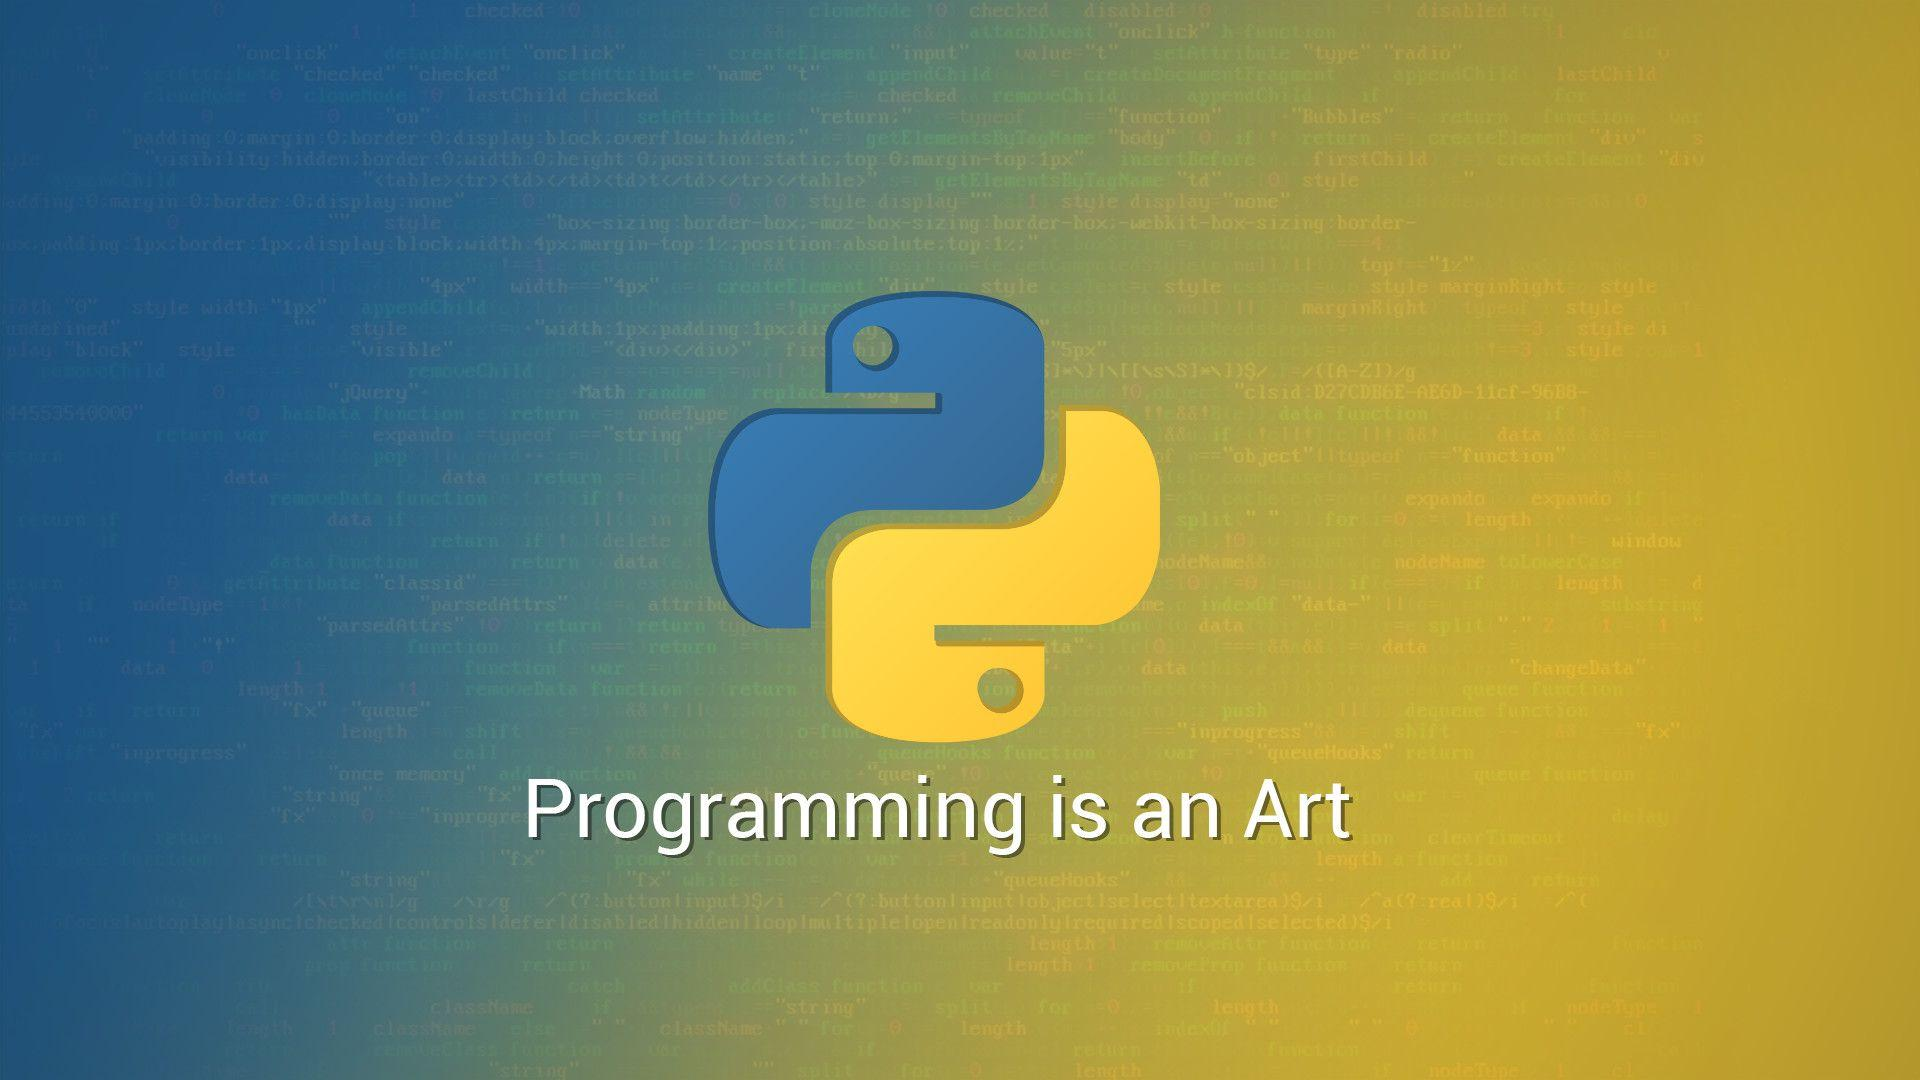
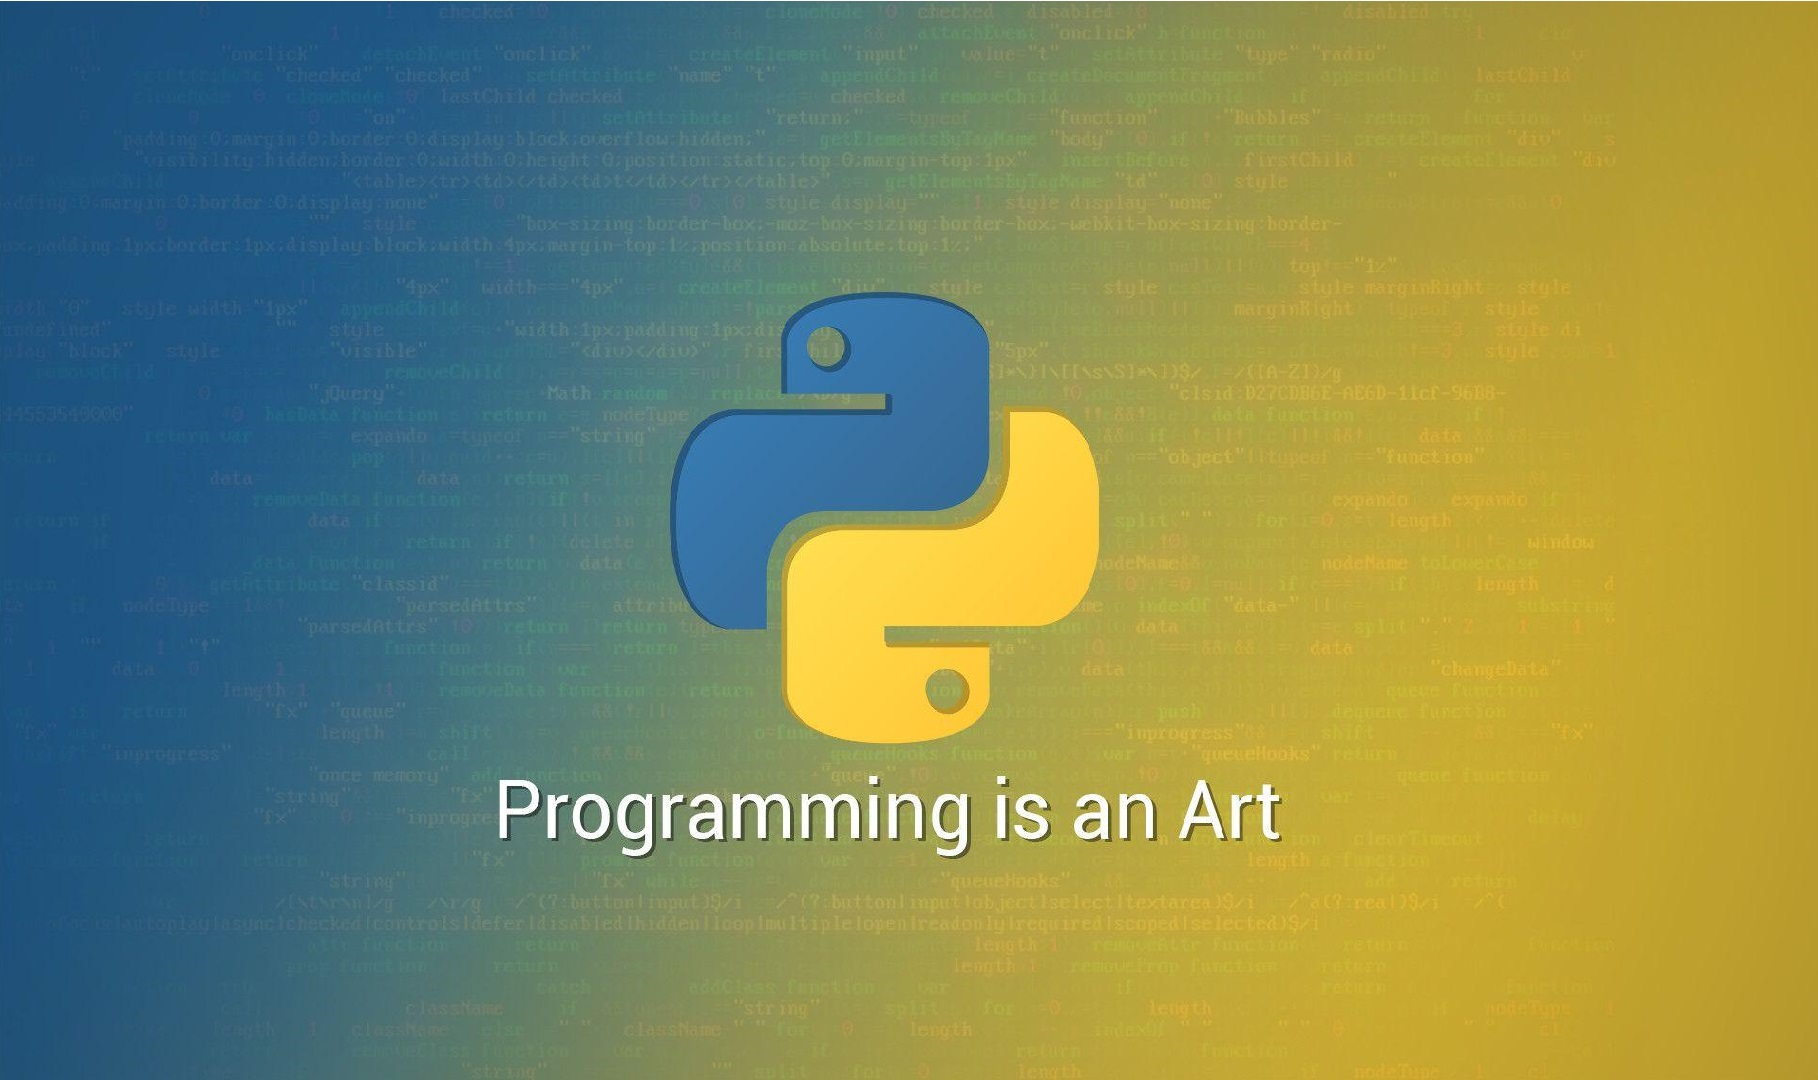
Added slideshows

Changed region(s): [[0.2772, 0.7333, 0.7085, 0.7944]]

diff --git a/python.html b/python.html
@@ -5,6 +5,7 @@
     <meta name="viewport" content="width=device-width, initial-scale=1.0" />
     <title>Computer Mind</title>
     <script src="js/load.js"></script>
+    <link rel="stylesheet" href="bootstrap.css" />
     <link rel="stylesheet" href="css/style.css" />
     <link
       rel="stylesheet"
@@ -13,9 +14,9 @@
     <style>
       .acc-header {
         background: linear-gradient(
-          to right,
-          rgb(56, 110, 156),
-          rgb(255, 210, 65)
+          to left,
+          rgb(80, 157, 224),
+          rgb(255, 219, 101)
         );
       }
 
@@ -68,8 +69,84 @@
     </div>
     <div class="main-content">
       <div class="background-py">
-        <div class="filter">
-          <h1 class="bg-title"></h1>
+        <div>
+          <div id="myCarousel" class="carousel slide" data-bs-ride="carousel">
+            <div class="carousel-indicators">
+              <button
+                type="button"
+                data-bs-target="#myCarousel"
+                data-bs-slide-to="0"
+                class="active"
+              ></button>
+              <button
+                type="button"
+                data-bs-target="#myCarousel"
+                data-bs-slide-to="1"
+              ></button>
+              <button
+                type="button"
+                data-bs-target="#myCarousel"
+                data-bs-slide-to="2"
+              ></button>
+              <button
+                type="button"
+                data-bs-target="#myCarousel"
+                data-bs-slide-to="3"
+              ></button>
+            </div>
+
+            <div class="carousel-inner">
+              <div class="carousel-item active" data-bs-interval="5000">
+                <img
+                  class="d-block w-100"
+                  style="height: 800px; object-fit: cover"
+                  src="img/bgpython.jpg"
+                  alt="Python"
+                />
+              </div>
+              <div class="carousel-item" data-bs-interval="5000">
+                <img
+                  class="d-block w-100"
+                  style="height: 800px; object-fit: cover"
+                  src="img/Python/python1.jpg"
+                  alt="Python"
+                />
+              </div>
+              <div class="carousel-item" data-bs-interval="5000">
+                <img
+                  class="d-block w-100"
+                  style="height: 800px; object-fit: cover"
+                  src="img/Python/python2.jpg"
+                  alt="Python"
+                />
+              </div>
+              <div class="carousel-item" data-bs-interval="5000">
+                <img
+                  class="d-block w-100"
+                  style="height: 800px; object-fit: cover"
+                  src="img/Python/PythonAnimal.png"
+                  alt="Python"
+                />
+              </div>
+            </div>
+
+            <button
+              class="carousel-control-prev"
+              type="button"
+              data-bs-target="#myCarousel"
+              data-bs-slide="prev"
+            >
+              <span class="carousel-control-prev-icon"></span>
+            </button>
+            <button
+              class="carousel-control-next"
+              type="button"
+              data-bs-target="#myCarousel"
+              data-bs-slide="next"
+            >
+              <span class="carousel-control-next-icon"></span>
+            </button>
+          </div>
         </div>
       </div>
 
@@ -212,3 +289,5 @@
   </body>
 </html>
 <script src="js/script.js"></script>
+<!-- Bootstrap JS Bundle -->
+<script src="https://cdn.jsdelivr.net/npm/bootstrap@5.3.0/dist/js/bootstrap.bundle.min.js"></script>

diff --git a/webdesign.html b/webdesign.html
@@ -5,6 +5,7 @@
     <meta name="viewport" content="width=device-width, initial-scale=1.0" />
     <title>Computer Mind</title>
     <script src="js/load.js"></script>
+    <link rel="stylesheet" href="bootstrap.css" />
     <link rel="stylesheet" href="css/style.css" />
     <link
       rel="stylesheet"
@@ -15,8 +16,8 @@
     .acc-header {
       background: linear-gradient(
         to right,
-        rgb(252, 116, 79),
-        rgb(45, 170, 254)
+        rgb(136, 207, 255),
+        rgb(83, 186, 255)
       );
       color: black;
     }
@@ -69,8 +70,84 @@
     </div>
     <div class="main-content">
       <div class="background-web">
-        <div class="filter">
-          <h1 class="bg-title"></h1>
+        <div>
+          <div id="myCarousel" class="carousel slide" data-bs-ride="carousel">
+            <div class="carousel-indicators">
+              <button
+                type="button"
+                data-bs-target="#myCarousel"
+                data-bs-slide-to="0"
+                class="active"
+              ></button>
+              <button
+                type="button"
+                data-bs-target="#myCarousel"
+                data-bs-slide-to="1"
+              ></button>
+              <button
+                type="button"
+                data-bs-target="#myCarousel"
+                data-bs-slide-to="2"
+              ></button>
+              <button
+                type="button"
+                data-bs-target="#myCarousel"
+                data-bs-slide-to="3"
+              ></button>
+            </div>
+
+            <div class="carousel-inner">
+              <div class="carousel-item active" data-bs-interval="5000">
+                <img
+                  class="d-block w-100"
+                  style="height: 800px; object-fit: cover"
+                  src="img/web.jpg"
+                  alt="web design"
+                />
+              </div>
+              <div class="carousel-item" data-bs-interval="5000">
+                <img
+                  class="d-block w-100"
+                  style="height: 800px; object-fit: cover"
+                  src="img/Web design/web1.jpg"
+                  alt="web design"
+                />
+              </div>
+              <div class="carousel-item" data-bs-interval="5000">
+                <img
+                  class="d-block w-100"
+                  style="height: 800px; object-fit: cover"
+                  src="img/Web design/web2.jpg"
+                  alt="web design"
+                />
+              </div>
+              <div class="carousel-item" data-bs-interval="5000">
+                <img
+                  class="d-block w-100"
+                  style="height: 800px; object-fit: cover"
+                  src="img/Web design/web3.jpg"
+                  alt="web design"
+                />
+              </div>
+            </div>
+
+            <button
+              class="carousel-control-prev"
+              type="button"
+              data-bs-target="#myCarousel"
+              data-bs-slide="prev"
+            >
+              <span class="carousel-control-prev-icon"></span>
+            </button>
+            <button
+              class="carousel-control-next"
+              type="button"
+              data-bs-target="#myCarousel"
+              data-bs-slide="next"
+            >
+              <span class="carousel-control-next-icon"></span>
+            </button>
+          </div>
         </div>
       </div>
 
@@ -205,3 +282,5 @@
   </body>
 </html>
 <script src="js/script.js"></script>
+<!-- Bootstrap JS Bundle -->
+<script src="https://cdn.jsdelivr.net/npm/bootstrap@5.3.0/dist/js/bootstrap.bundle.min.js"></script>

diff --git a/css/style.css b/css/style.css
@@ -8,8 +8,10 @@
   --border-color: rgb(49, 52, 61);
   --font-color: whitesmoke;
   --body-color: var(--side-bar);
-  --switch-btn-hover: rgb(138, 138, 138);
-  --switch-btn: grey;
+  --switch-btn: #020409;
+  --switch-btn-hover: rgb(51, 51, 51);
+  --acc-font-color: white;
+  --button-color: whitesmoke;
 }
 
 [data-theme="light"] {
@@ -17,8 +19,10 @@
   --side-bar: rgb(0, 31, 43);
   --font-color: black;
   --body-color: white;
-  --switch-btn: black;
-  --switch-btn-hover: rgb(55, 55, 55);
+  --switch-btn: whitesmoke;
+  --switch-btn-hover: rgb(194, 194, 194);
+  --acc-font-color: black;
+  --button-color: black;
 }
 
 body {
@@ -75,7 +79,7 @@ body {
 
 .toggle-btn {
   display: block;
-  color: white;
+  color: var(--font-color);
   padding: 15px 20px;
   text-decoration: none;
   font-family: "Segoe UI", Tahoma, Geneva, Verdana, sans-serif;

diff --git a/PHP-SQL.html b/PHP-SQL.html
@@ -14,8 +14,8 @@
       .acc-header {
         background: radial-gradient(
           circle,
-          rgb(126, 174, 58),
-          rgb(1, 117, 168)
+          rgb(225, 255, 184),
+          rgb(200, 255, 122)
         );
         color: black;
       }

diff --git a/c++.html b/c++.html
@@ -14,8 +14,8 @@
       .acc-header {
         background: linear-gradient(
           to right,
-          rgb(101, 154, 210),
-          rgb(255, 255, 255)
+          rgb(121, 186, 255),
+          rgb(153, 202, 254)
         );
       }
 
